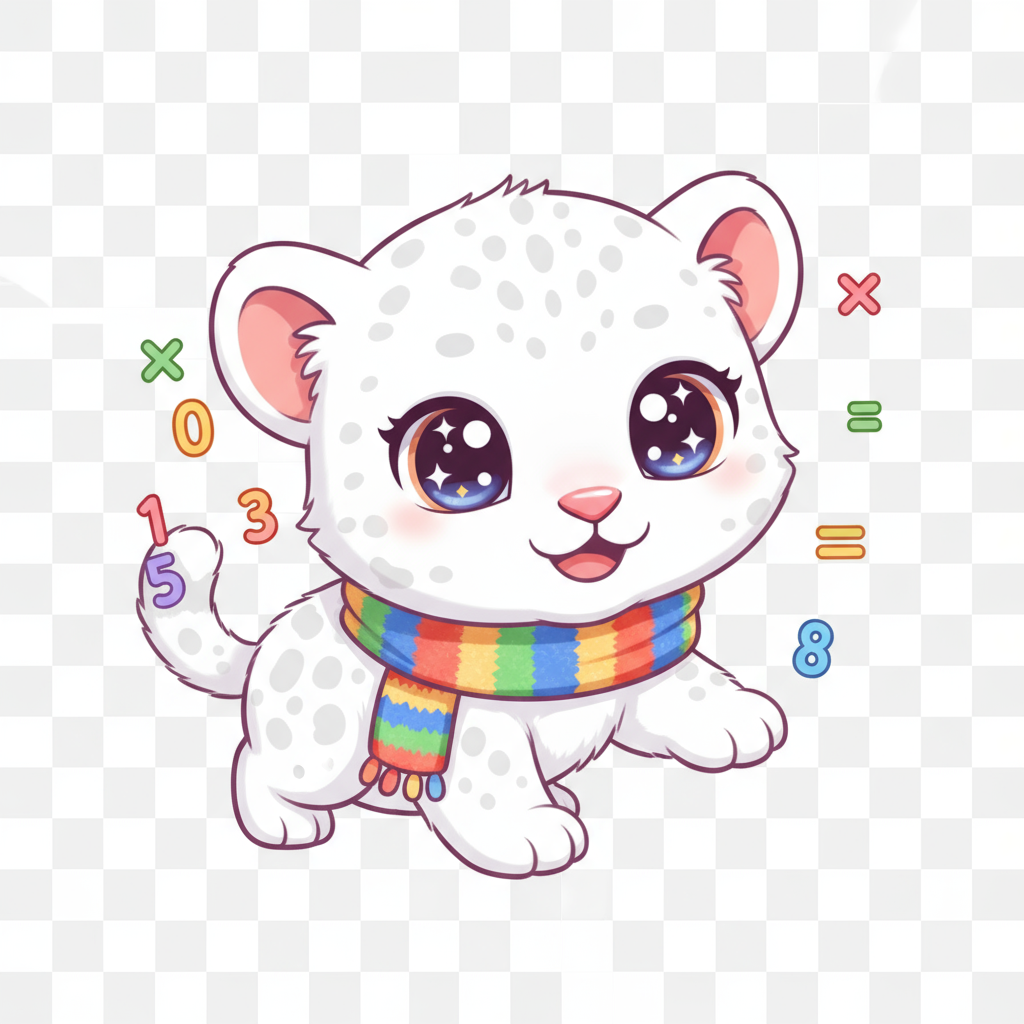
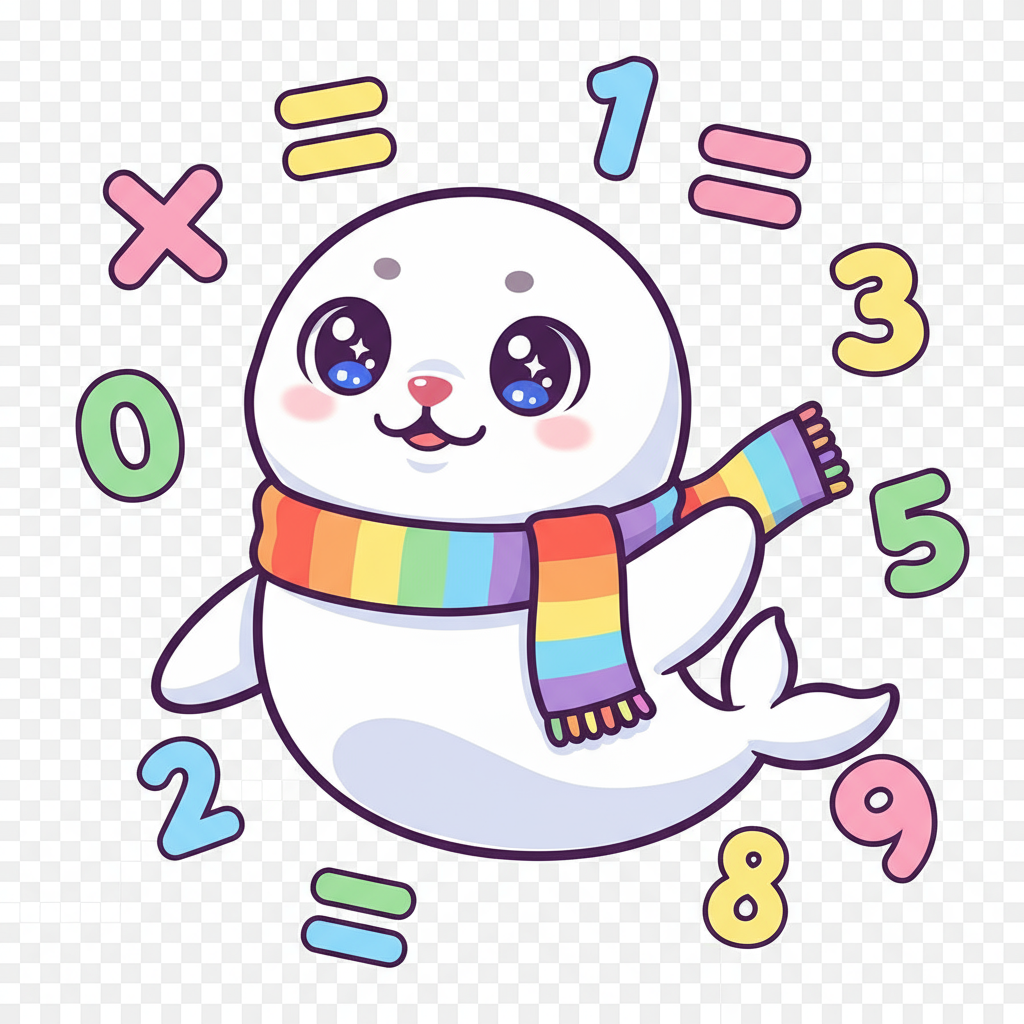
feat: 更新為可愛的小海豹吉祥物，完全透明背景PNG
- 重新生成三張透明背景的小海豹PNG圖片（主要、慶祝、鼓勵）
- 更新所有程式碼中的文字從「小白豹」改為「小海豹」
- 更新吉祥物名稱、歡迎訊息、慶祝文字等所有相關內容
- 修復測試文件以適應新的小海豹吉祥物
- 保持所有功能完整（音效、動畫、慶祝效果等）
- 確保所有圖片都是透明背景，完美融入彩虹背景

diff --git a/src/scenes/MultiplicationAdventure/MultiplicationAdventure.tsx b/src/scenes/MultiplicationAdventure/MultiplicationAdventure.tsx
@@ -22,21 +22,21 @@ import { soundManager } from '../../utils/soundManager'
 const tableOptions = Array.from({ length: 8 }, (_, index) => index + 2)
 
 const MultiplicationAdventure = () => {
-  // 小白豹吉祥物資料
-  const whiteLeopardMascot: MascotProfile = {
-    id: 'white-leopard',
-    name: '小白豹',
+  // 小海豹吉祥物資料
+  const whiteSealMascot: MascotProfile = {
+    id: 'white-seal',
+    name: '小海豹',
     title: '乘法小夥伴',
     subtitle: '一起征服九九乘法表！',
     gradient: 'from-purple-400 to-pink-500',
-    greeting: '嗨！我是小白豹，準備好和我一起挑戰乘法冒險了嗎？',
-    encourage: '別擔心，小白豹相信你一定可以的！加油！',
-    celebrate: '太棒了！小白豹為你感到超級驕傲！',
-    celebratePerfect: '哇！完美表現！小白豹要為你戴上勝利的皇冠！',
+    greeting: '嗨！我是小海豹，準備好和我一起挑戰乘法冒險了嗎？',
+    encourage: '別擔心，小海豹相信你一定可以的！加油！',
+    celebrate: '太棒了！小海豹為你感到超級驕傲！',
+    celebratePerfect: '哇！完美表現！小海豹要為你戴上勝利的皇冠！',
     svg: (
       <img 
         src="/images/cute-white-leopard-mascot.png" 
-        alt="小白豹" 
+        alt="小海豹" 
         className="w-20 h-20 object-contain animate-bounce-gentle"
       />
     ),
@@ -57,7 +57,7 @@ const MultiplicationAdventure = () => {
     resetToMenu,
   } = useMultiplicationGame()
 
-  // 固定使用小白豹作為唯一吉祥物
+  // 固定使用小海豹作為唯一吉祥物
   const [showCelebration, setShowCelebration] = useState(false)
   const [showMascotCelebration, setShowMascotCelebration] = useState(false)
   const [answerFeedback, setAnswerFeedback] = useState<{
@@ -170,15 +170,15 @@ const MultiplicationAdventure = () => {
 
       {state.status === 'setup' && (
         <section className="grid gap-6 rounded-hero bg-white/90 p-6 shadow-soft">
-          {/* 小白豹歡迎區域 */}
+          {/* 小海豹歡迎區域 */}
           <div className="flex items-center gap-4 rounded-hero bg-gradient-to-r from-purple-100 to-pink-100 p-4">
             <div className="flex-shrink-0">
-              {whiteLeopardMascot.svg}
+              {whiteSealMascot.svg}
             </div>
             <div className="space-y-1">
-              <h3 className="text-lg font-bold text-midnight">{whiteLeopardMascot.name}</h3>
-              <p className="text-sm font-medium text-midnight/80">{whiteLeopardMascot.greeting}</p>
-              <p className="text-sm text-midnight/70">{whiteLeopardMascot.encourage}</p>
+              <h3 className="text-lg font-bold text-midnight">{whiteSealMascot.name}</h3>
+              <p className="text-sm font-medium text-midnight/80">{whiteSealMascot.greeting}</p>
+              <p className="text-sm text-midnight/70">{whiteSealMascot.encourage}</p>
             </div>
           </div>
 
@@ -323,7 +323,7 @@ const MultiplicationAdventure = () => {
             onClick={handleStartSession}
             data-testid="mul-start-session"
           >
-            🚀 和{whiteLeopardMascot.name}一起出發！
+            🚀 和{whiteSealMascot.name}一起出發！
           </button>
         </section>
       )}
@@ -369,7 +369,7 @@ const MultiplicationAdventure = () => {
               得分 {correctCount} / {progress.total}
             </p>
             <p className="text-midnight/80">
-              {perfect ? whiteLeopardMascot.celebratePerfect : whiteLeopardMascot.celebrate}
+              {perfect ? whiteSealMascot.celebratePerfect : whiteSealMascot.celebrate}
             </p>
           </div>
 
@@ -393,7 +393,7 @@ const MultiplicationAdventure = () => {
               onClick={handleRetry}
               data-testid="mul-retry"
             >
-              🔄 和{whiteLeopardMascot.name}再闖 9 題！
+              🔄 和{whiteSealMascot.name}再闖 9 題！
             </button>
             <button
               type="button"
@@ -424,7 +424,7 @@ const MultiplicationAdventure = () => {
       {/* 吉祥物慶祝動畫 */}
       <MascotCelebration
         show={showMascotCelebration}
-        mascot={whiteLeopardMascot}
+        mascot={whiteSealMascot}
         perfect={perfect}
         onComplete={() => setShowMascotCelebration(false)}
       />

diff --git a/tests/scenes/MultiplicationAdventure.test.tsx b/tests/scenes/MultiplicationAdventure.test.tsx
@@ -15,8 +15,8 @@ describe('MultiplicationAdventure scene', () => {
   it('lets a learner answer practice questions using choices', async () => {
     render(<App />)
 
-    // 小白豹是固定的吉祥物，不需要選擇
-    expect(screen.getByText('小白豹')).toBeInTheDocument()
+    // 小海豹是固定的吉祥物，不需要選擇
+    expect(screen.getByText('小海豹')).toBeInTheDocument()
     expect(screen.getByText('選擇練習方式')).toBeInTheDocument()
 
     await userEvent.click(screen.getByTestId('mul-start-session'))
